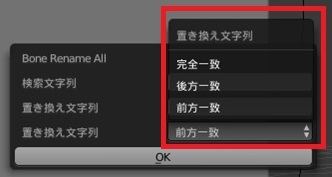
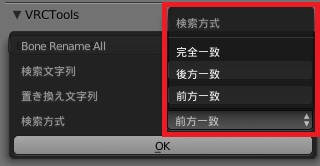
初版リリース
初版リリース

diff --git a/src/vrc_tools.py b/src/vrc_tools.py
@@ -1,0 +1,92 @@
+import bpy
+import re
+
+bl_info = {
+    "name": "VRCTools",
+    "author": "Himakuma(kumatta_ss)",
+    "version": (1, 0),
+    "blender": (2, 79, 0),
+    "location": "",
+    "description": "VRCTools",
+    "warning": "",
+    "support": "COMMUNITY",
+    "wiki_url": "",
+    "tracker_url": "",
+    "category": "Object"
+}
+
+class UI(bpy.types.Panel):
+    bl_label = "VRCTools"
+    bl_space_type = "VIEW_3D"
+    bl_region_type = "TOOLS"
+    bl_category = "Tools"
+  
+    def draw(self, context):
+        self.layout.operator("kumatta_ss.bone_rename_all")
+
+class BoneRenameAll(bpy.types.Operator):
+    bl_idname = "kumatta_ss.bone_rename_all"  # 識別用のID
+    bl_label = "Bone Rename All"              # ボタン名称
+    bl_description = "Bone Rename All"        # 説明
+
+    searchModes = [
+        ("Forward", "前方一致", ""),
+        ("Backward", "後方一致", ""),
+        ("Perfect", "完全一致", ""),
+    ]
+
+    # ダイアログ用のプロパティ
+    replaceStr = bpy.props.StringProperty(name="検索文字列")
+    replaceToStr = bpy.props.StringProperty(name="置き換え文字列")
+    searchMode = bpy.props.EnumProperty(name="検索方式", description="", default='Forward', items=searchModes)
+
+    # 活性制御
+    @classmethod
+    def poll(self, context):
+        obj = context.active_object
+        return obj and obj.type == 'ARMATURE'
+
+    # プラグインの処理
+    def execute(self, context):
+        if len(self.replaceStr) == 0 :
+            return {'FINISHED'}
+
+        regStr = re.escape(self.replaceStr)
+        if self.searchMode == "Forward" :
+            regStr = "^" + re.escape(self.replaceStr)
+
+        elif self.searchMode == "Backward" :
+            regStr = re.escape(self.replaceStr) + "$"
+
+        for boneData in bpy.context.active_object.data.bones:
+            if re.search(regStr, boneData.name) :
+                boneData.name = re.sub(regStr, self.replaceToStr, boneData.name)
+
+        # 成功時の返却
+        return {'FINISHED'}
+
+    # ダイアログ処理
+    def invoke(self, context, event):
+        # クラス変数をダイアログのプロパティとして指定
+        return context.window_manager.invoke_props_dialog(self)
+
+
+classes = (
+    UI,
+    BoneRenameAll
+)
+
+
+def register():
+    print("Bone Rename All ON")
+    for cls in classes:
+        bpy.utils.register_class(cls)
+
+def unregister():
+    print("Bone Rename All OFF")
+    for cls in reversed(classes):
+        bpy.utils.unregister_class(cls)
+
+if __name__ == "__main__":
+    register()
+

diff --git a/README.md b/README.md
@@ -1,2 +1,55 @@
 # blender-vrc-tools
 VRC向けのBlenderアドオン
+
+## バージョンについて
+v1.0
+
+v{メジャーバージョン}.{マイナーバージョン・バグフィックス}
+
+1. メジャーバージョン：レイアウト変更を伴う機能追加、または、使用するライブラリ群の変更、更新
+1. マイナーバージョン：メジャーバージョンの変更外の機能追加、バグの修正単位（コード改善含む）
+
+## 使用方法
+### インストール
+1. 「https://github.com/Himakuma/blender-vrc-tools/releases」からダウンロード
+
+2. ダウンロードファイルを解凍
+※「src」配下を使用
+
+3. 「File->User Preferences」をクリック
+
+![インストール](https://github.com/Himakuma/blender-vrc-tools/blob/master/doc/img/install_0100.jpg "使用方法")
+
+4. 「Add-ons」タグを選択、「Install Add-on from File」をクリック
+
+![インストール](https://github.com/Himakuma/blender-vrc-tools/blob/master/doc/img/install_0200.jpg "使用方法")
+
+5. 「Install Add-on from File」をクリック、ダウンロードした「vrc_tools.py」を選択
+
+![インストール](https://github.com/Himakuma/blender-vrc-tools/blob/master/doc/img/install_0300.jpg "使用方法")
+
+6. 
+
+![インストール](https://github.com/Himakuma/blender-vrc-tools/blob/master/doc/img/install_0400.jpg "使用方法")
+
+7. 
+
+![インストール](https://github.com/Himakuma/blender-vrc-tools/blob/master/doc/img/install_0500.jpg "使用方法")
+
+### 実行方法
+1. 
+
+![実行](https://github.com/Himakuma/blender-vrc-tools/blob/master/doc/img/run_0100.jpg "使用方法")
+
+2. 
+
+![実行](https://github.com/Himakuma/blender-vrc-tools/blob/master/doc/img/run_0200.jpg "使用方法")
+
+3. 
+
+![実行](https://github.com/Himakuma/blender-vrc-tools/blob/master/doc/img/run_0300.jpg "使用方法")
+
+4. 
+
+![実行](https://github.com/Himakuma/blender-vrc-tools/blob/master/doc/img/run_0400.jpg "使用方法")
+
